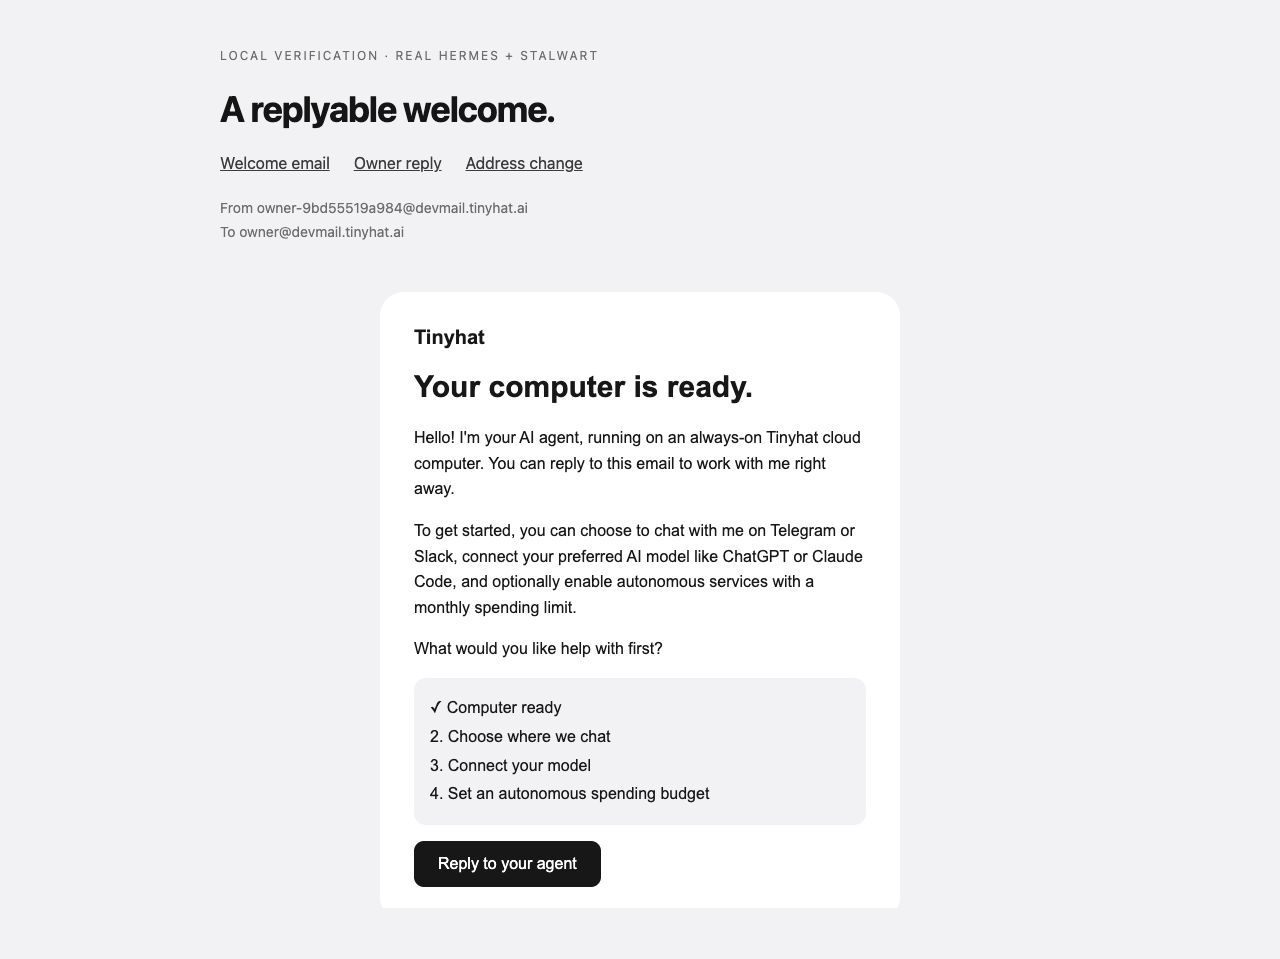
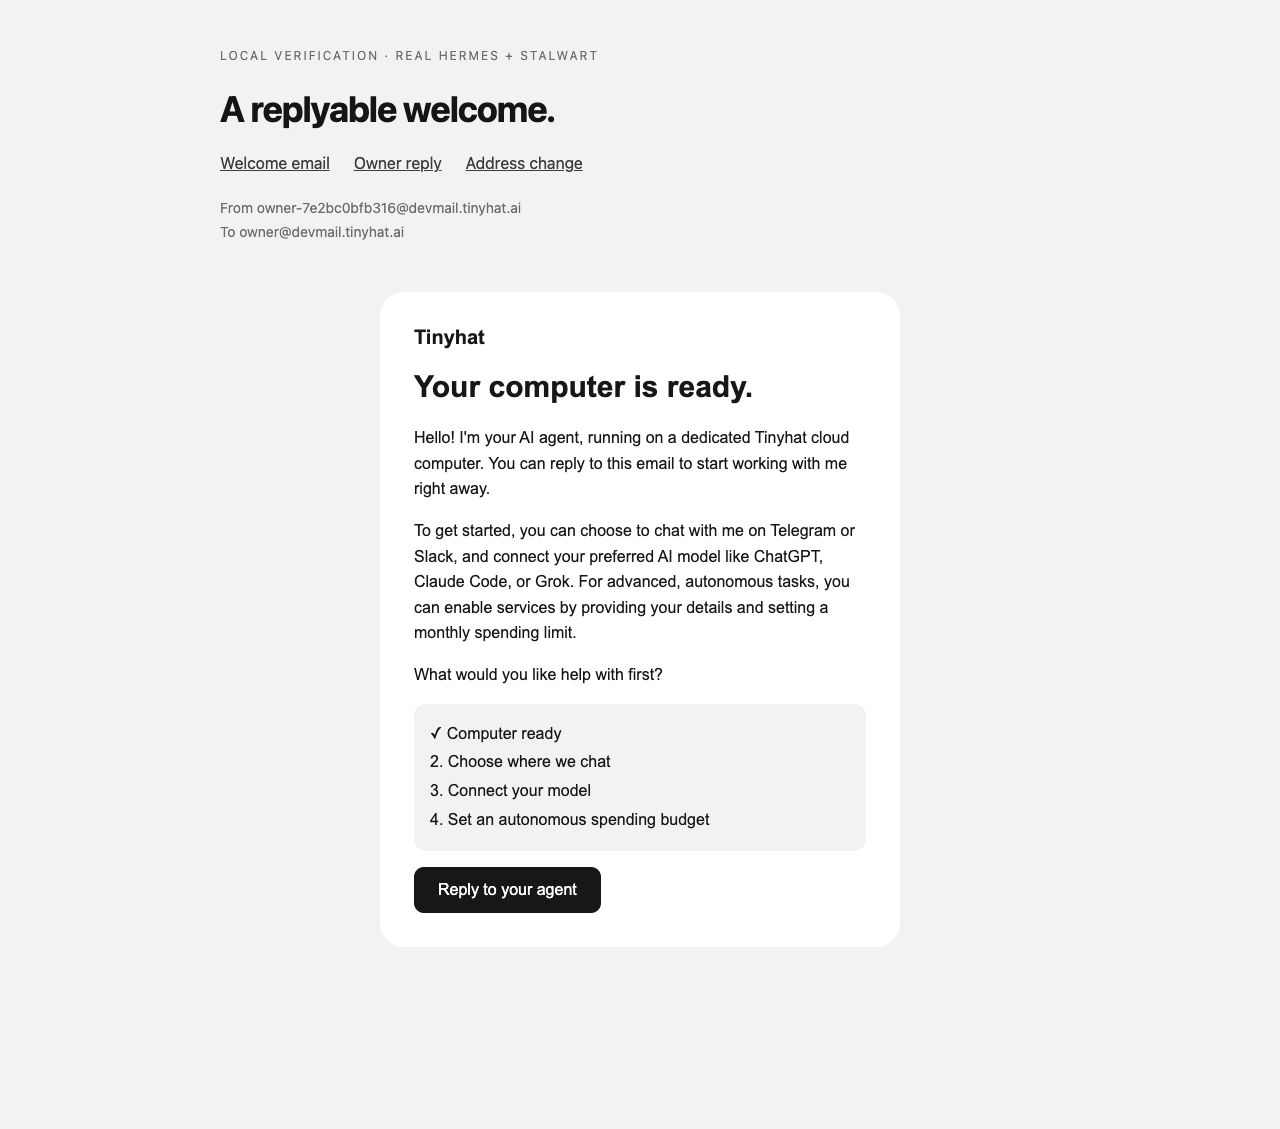
docs(runtime): refresh received email verification
Record the latest real gateway conversation, including the address collision retry delay, without implying that local email timing measures cloud VM creation.

diff --git a/docs/verification/email-onboarding/README.md b/docs/verification/email-onboarding/README.md
@@ -9,8 +9,9 @@ All addresses shown are disposable fixtures.
 
 ![Actual received welcome](welcome.png)
 
-The welcome arrived 12.65 seconds after the conversation test started; both replies
-arrived by 32.19 seconds. These measure local email onboarding, not VM creation.
+The welcome arrived 72.91 seconds after the conversation test started; both replies
+arrived by 92.46 seconds. This run includes a deliberate address collision and the 60-second retry
+cooldown. These measure local email onboarding, not VM creation.
 Internet delivery and production inbox placement have not been tested here.
 
 Linux verification used a Python 3.13 container with Hermes installed, this
